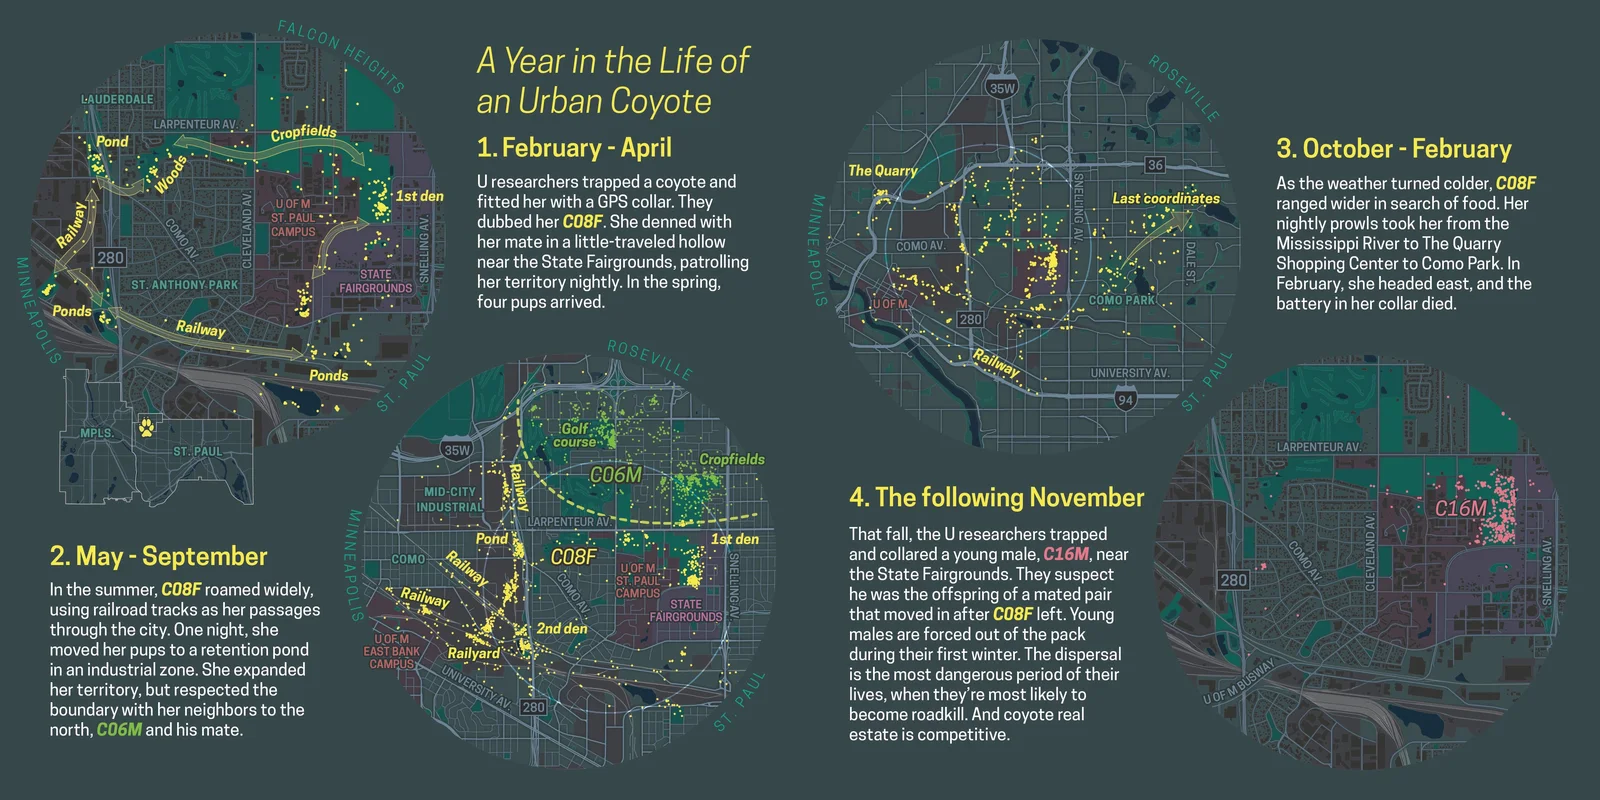
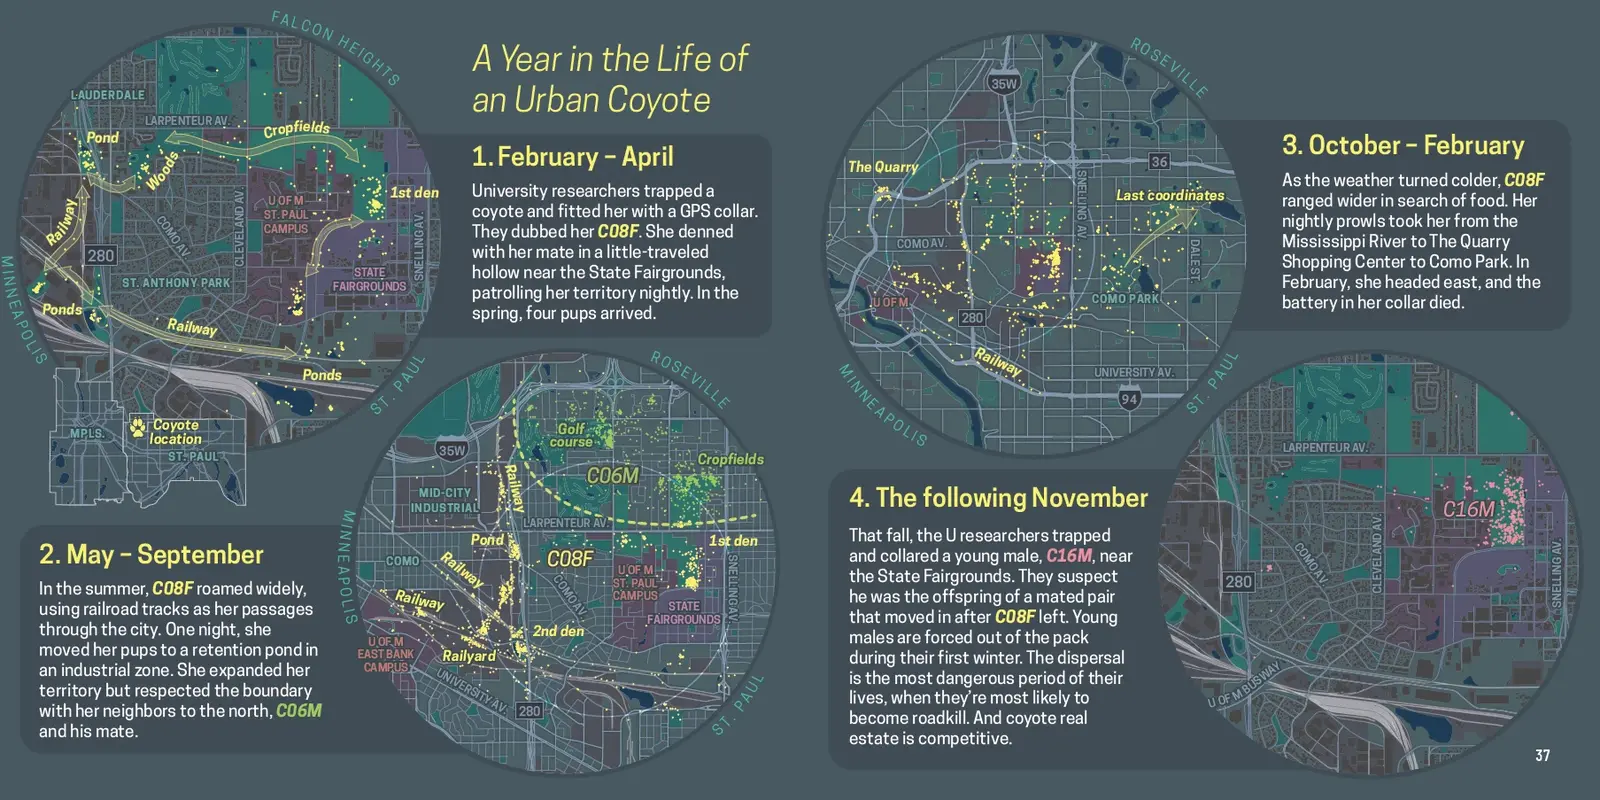
Fox and coyote: swap in the book's coyote spread

diff --git a/js/projects.js b/js/projects.js
@@ -714,10 +714,9 @@ const PROJECTS = [
     description: "Stories about backyard foxes and coyotes eking out a life in the margins of the metro.",
     mediaFull:   true,                            // the whole spread across the panel
     images:      [
-      // "A Year in the Life of an Urban Coyote", converted from the CMYK print
-      // original (50 Maps/Maps/Coyotes/coyote.jpg) to screen colors, white
-      // margin trimmed; clicking opens it at full resolution
-      { src: "img/tiles/urban-coyote-spread.webp", full: "img/urban-coyote.jpg", inBook: true }
+      // "A Year in the Life of an Urban Coyote", the book spread (p. 37);
+      // clicking opens the 1807px original
+      { src: "img/tiles/urban-coyote-spread.webp", full: "img/urban-coyote.webp", inBook: true }
     ],
     links:       [
       { label: "Backyard battle for survival", url: "https://www.startribune.com/its-foxes-versus-coyotes-in-a-backyard-battle-for-survival/601504496" }
